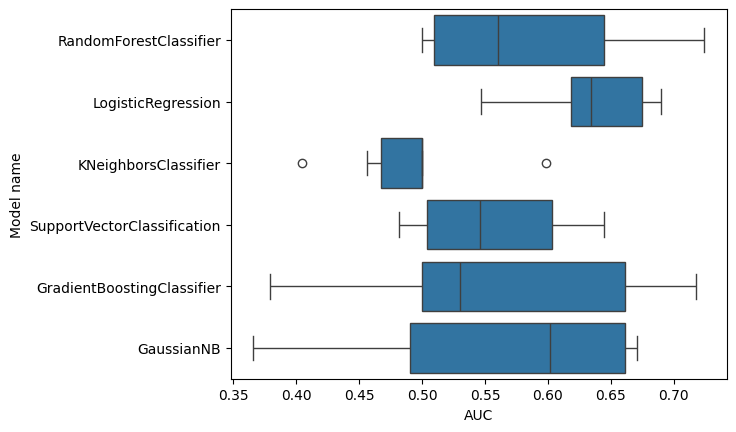
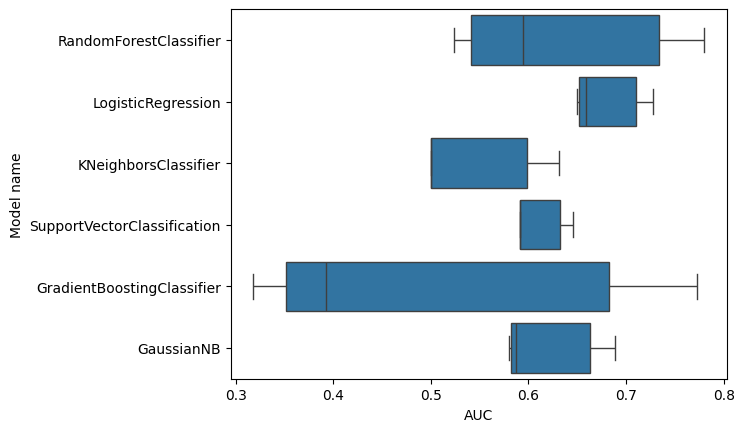
4 manann

diff --git a/System/Modules/Mbuilding.py b/System/Modules/Mbuilding.py
@@ -47,7 +47,7 @@ def model_shake(DATA, X_TEST, Y_TEST, TARGET_COLUMN, TARGET_TY, Fast = True):
     colors_plot = ['#309284', '#337AEF']
     fig_ROC = 0
     fig_CM = 0
-    FEATURE_N = 5 #can test to change it or make it auto to find the best N
+    FEATURE_N = 30 #can test to change it or make it auto to find the best N
     model_return = pd.DataFrame(columns = ['Target column', 'Target type', 'Model name', 
                                            'Normalization method', 'Feature selection method', 
                                            'Features used', 'importances', 'Number of splits', 'Cross-validation ID', 
@@ -141,19 +141,47 @@ def model_shake(DATA, X_TEST, Y_TEST, TARGET_COLUMN, TARGET_TY, Fast = True):
                                                             number_of_splits, shift_idx, model.score(X_validR, y_valid)] 
     
 
-    # 1 SELECT FEATURES WITH CV (for now i use the set of features with higher Accuracy)
-    Feat_best_set = pd.DataFrame(columns = ['Model', 'Normalization method', 'Feature method', 'Best set', 'Importances Custom', 'Score' ])
+    # # 1 SELECT FEATURES WITH CV (for now i use the set of features with higher Accuracy)
+    # Feat_best_set = pd.DataFrame(columns = ['Model', 'Normalization method', 'Feature method', 'Best set', 'Importances Custom', 'Score' ])
+
+    # for model_nm in model_stack:
+    #     for feature_nm in Feature_methods[0:len(FEATURE_FLAGS)]:
+    #         for normFlag_nm in NORM_FLAGS:
+    #             feat_n_score = FS_return.query('`Model name` == @model_nm and `Feature selection method` == @feature_nm and `Normalization method` == @Normalization_methods[@normFlag_nm]')[['Features used', 'Normalization method','importances', 'Score']]
+    #             best_set = feat_n_score.sort_values(by='Score').iloc[-1]['Features used']
+    #             best_set_score = feat_n_score.sort_values(by='Score').iloc[-1]['Score']
+    #             best_set_importances = feat_n_score.sort_values(by='Score').iloc[-1]['importances']
+
+    #             Feat_best_set.loc[len(Feat_best_set.index)] = [model_nm, Normalization_methods[normFlag_nm],feature_nm, best_set, best_set_importances, best_set_score] 
+
+
+
+    # 2 SELECT FEATURES WITH CV (for now i use the set of features with higher Accuracy)
+    Feat_best_set = pd.DataFrame(columns = ['Model', 'Normalization method', 'Feature method', 'Best set', 'Importances Custom'])
 
     for model_nm in model_stack:
         for feature_nm in Feature_methods[0:len(FEATURE_FLAGS)]:
             for normFlag_nm in NORM_FLAGS:
                 feat_n_score = FS_return.query('`Model name` == @model_nm and `Feature selection method` == @feature_nm and `Normalization method` == @Normalization_methods[@normFlag_nm]')[['Features used', 'Normalization method','importances', 'Score']]
-                best_set = feat_n_score.sort_values(by='Score').iloc[-1]['Features used']
-                best_set_score = feat_n_score.sort_values(by='Score').iloc[-1]['Score']
-                best_set_importances = feat_n_score.sort_values(by='Score').iloc[-1]['importances']
+                
+                all_features = []
+                for f_list in feat_n_score['Features used'].values:
+                    all_features = all_features+f_list
+                feature_imp_sum = pd.DataFrame(columns=pd.DataFrame(all_features)[0].unique())
+                feature_imp_sum.loc[len(feature_imp_sum)] = np.zeros(len(feature_imp_sum.columns))
 
-                Feat_best_set.loc[len(Feat_best_set.index)] = [model_nm, Normalization_methods[normFlag_nm],feature_nm, best_set, best_set_importances, best_set_score] 
-
+                #select best set by Score and importances
+                for index, row in feat_n_score[['Features used', 'importances', 'Score']].iterrows():
+                    for idx in range(number_of_splits):
+                        # breakpoint()
+                        Feat = row['Features used'][idx]
+                        Imp = row['importances'][idx]
+                        Scr = row['Score']
+                        feature_imp_sum.loc[0, Feat] += Scr*Imp
+                # breakpoint()
+                best_set = feature_imp_sum.transpose().sort_values(by=0).iloc[-FEATURE_N:].index
+                best_set_importances = feature_imp_sum.transpose().sort_values(by=0).iloc[-FEATURE_N:].values.transpose()[0]
+                Feat_best_set.loc[len(Feat_best_set.index)] = [model_nm, Normalization_methods[normFlag_nm],feature_nm, best_set, best_set_importances] 
 
     #### MODELING AND VALIDATION ####
     # NO CV for modeling and validation -> (we use valid and train) as train and we validate with test 
@@ -177,9 +205,9 @@ def model_shake(DATA, X_TEST, Y_TEST, TARGET_COLUMN, TARGET_TY, Fast = True):
             ### Step 3: Model selection ###
             for model_name in model_stack:
                 print('     model '+str(model_name))
-                current_Features = Feat_best_set.query('`Model` == @model_name and `Feature method` == @Feature_methods[@F_FLAG] and `Normalization method` == @Normalization_methods[@N_FLAG]')['Best set'].values.tolist()[0]
+                current_Featurescurrent_Features = Feat_best_set.query('`Model` == @model_name and `Feature method` == @Feature_methods[@F_FLAG] and `Normalization method` == @Normalization_methods[@N_FLAG]')['Best set'].values.tolist()[0]
                 importances = Feat_best_set.query('`Model` == @model_name and `Feature method` == @Feature_methods[@F_FLAG] and `Normalization method` == @Normalization_methods[@N_FLAG]')['Importances Custom'].values[0]
-
+                
                 indexes4X = []
                 for idxCF in range(len(current_Features)):
                     indexes4X.append(DATA.loc[:, DATA.columns != TARGET_COLUMN].columns.get_loc(current_Features[idxCF]))
@@ -265,10 +293,11 @@ def model_shake(DATA, X_TEST, Y_TEST, TARGET_COLUMN, TARGET_TY, Fast = True):
     fig_FEAT, axs = plt.subplots(nrows, ncols, figsize=(6 * ncols, 4 * nrows))
     axs = axs.flatten()  # Flatten to get a list: [ax1, ax2, ..., ax6]
 
+    # breakpoint()
     for i, ax in enumerate(axs):
         current_model = best_model_res.iloc[i]
         features = current_model['Features used']
-
+        
         # Plot bar
         ax.bar(features, current_model['importances'])
 
@@ -354,4 +383,5 @@ def model_shake(DATA, X_TEST, Y_TEST, TARGET_COLUMN, TARGET_TY, Fast = True):
         fig_score = plt.figure()
         sns.boxplot(data=model_return, y="Model name", x="Score")
 
+    breakpoint()
     return model_return, ALL_TRAINED_MODELS, fig_FEAT, fig_CM, fig_ROC, fig_score

diff --git a/System/Modules/Fselection.py b/System/Modules/Fselection.py
@@ -56,7 +56,7 @@ def F_selector(X_train, y_train, N_features=5, FLAG=0):
             importances = importances.to_numpy()
             importances = np.abs(importances)
             importances = importances[np.logical_not(np.isnan(importances))] 
-            
+        # breakpoint()    
         # Sort importances and select the top N    
         imp_sorted = np.sort(importances)
         if len(importances) <= N_features: importancesRET = imp_sorted

diff --git a/System/Modules/Dacquisition.py b/System/Modules/Dacquisition.py
@@ -152,7 +152,6 @@ def var_acquisition(DATA, COLUMN_SELECTED_IDX=-1, CHECK=True, interaction = True
                 plt.figure()
                 sns.histplot(DATA, x=TARGET_COLUMN)
                 plt.savefig('test.png')
-                breakpoint()
                 # for a in DATA[TARGET_COLUMN].unique():
 
                 # for drop_val in drop_target_col_values:

diff --git a/System/Auxiliary/auxiliary_fun.py b/System/Auxiliary/auxiliary_fun.py
@@ -78,6 +78,7 @@ def d_cast(DATA, TARGET_COLUMN):
         total_seconds = end_time-start_time
         minutes = int(total_seconds // 60)
         seconds = int(total_seconds % 60)
+        print()
         print('{minutes}:{seconds}'.format(minutes=minutes, seconds=seconds)+' minutes.')
 
         print('current column '+str(column))

diff --git a/Script.py b/Script.py
@@ -6,4 +6,4 @@ Fast = cutie.prompt_yes_or_no("Fast mode?")
 if not Fast: warnings.filterwarnings("ignore")
 
 ret = Workflow.dyn_model_selection(FAST = Fast, PLOT = False, local_file=True)
-breakpoint()
+# breakpoint()
